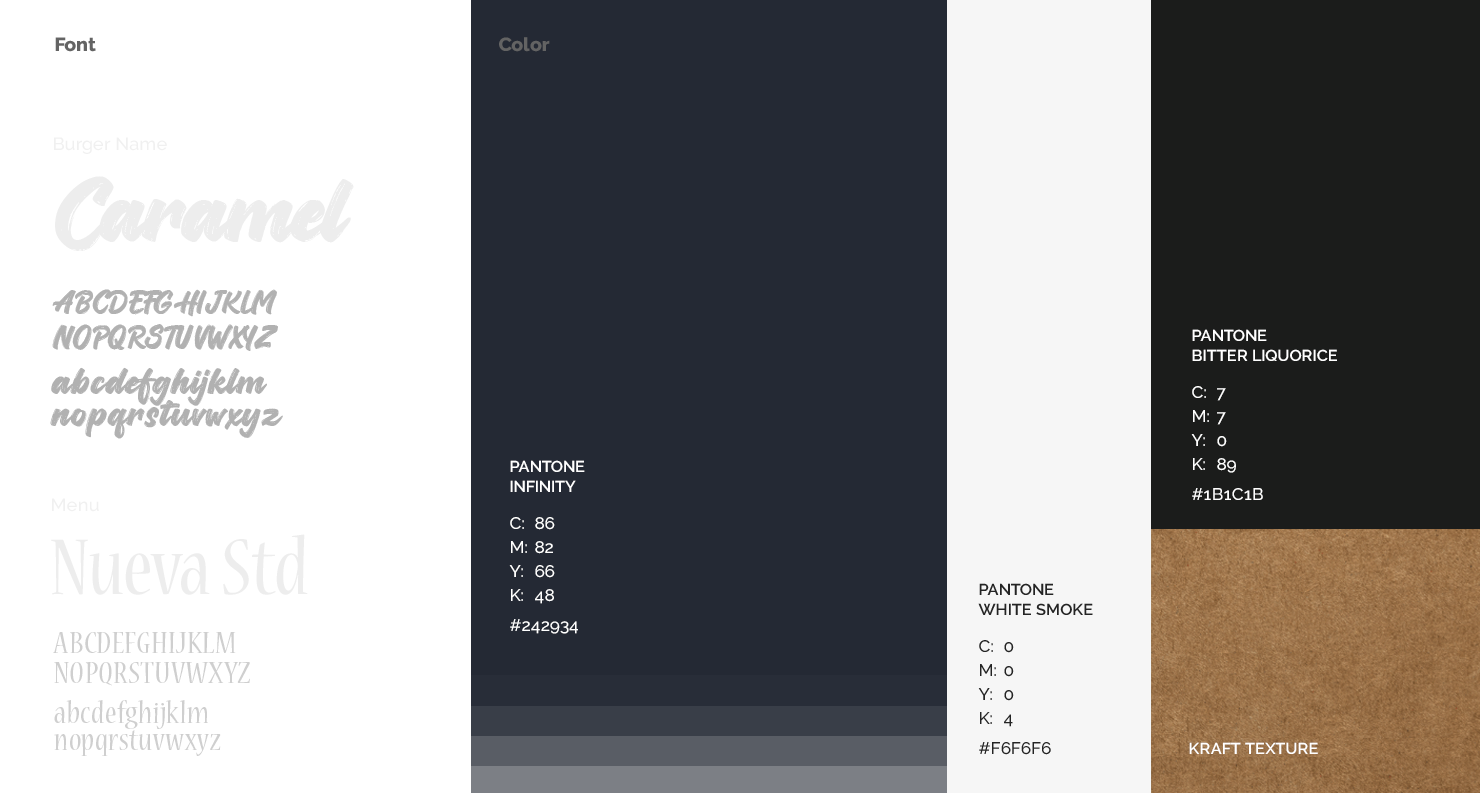
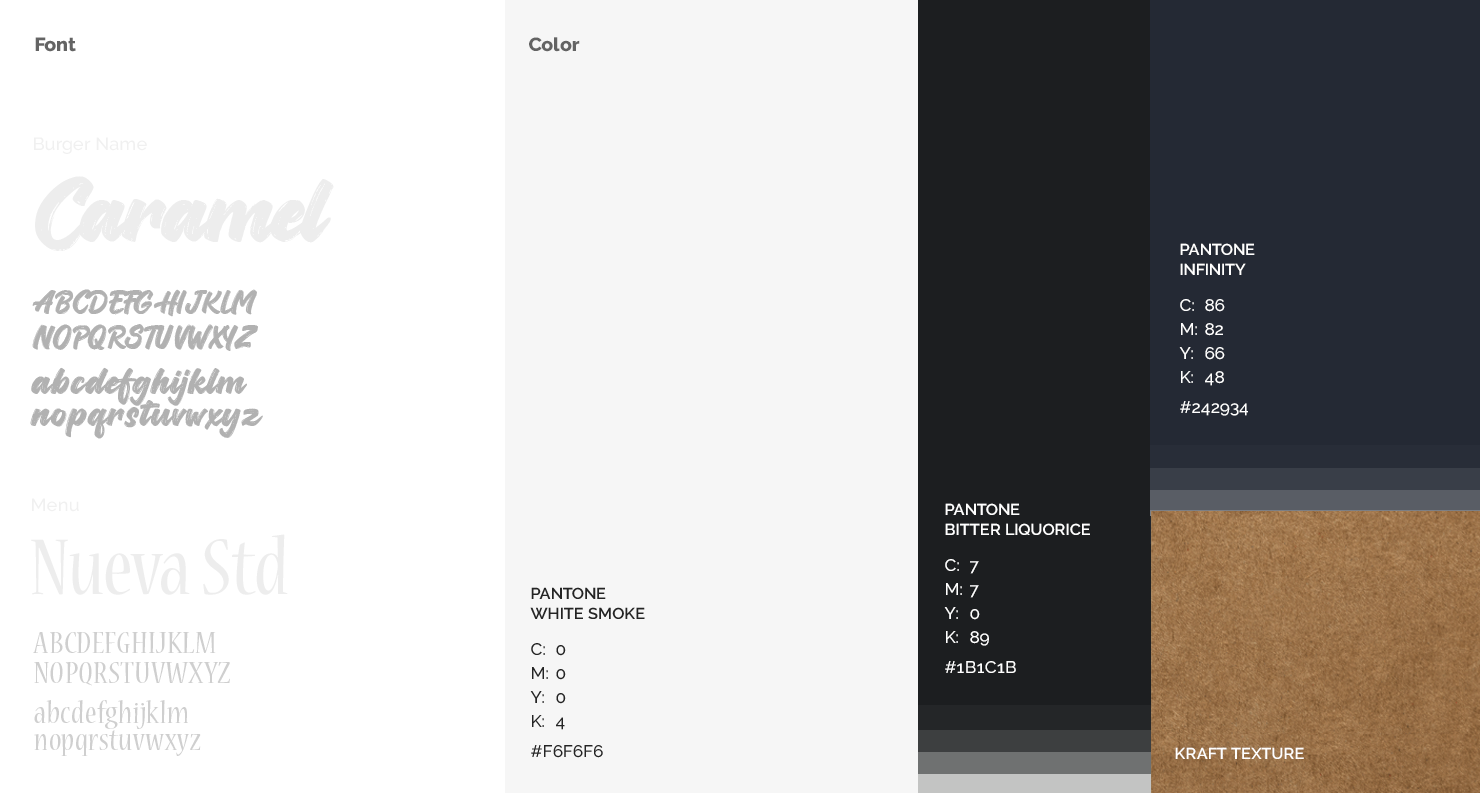
1211_01

diff --git a/project/2nd.html b/project/2nd.html
@@ -101,7 +101,7 @@
         <p class="observable h1 spacing-sub-title">The Story</p>
         <p class="observable statement-4 spacing-large copy-width-70" style="font-weight:100;">The shop owner who is South Africans Tribe people live in UK, started as a hamburger restaurant at city of Cotswolds after moving to the town. His own hand-crafted patties with south africa tribe spices marinate methods. The client needed a revamp brand identity to convey the message of the merge between traditional rustic tasty and community to transmit to it's costumers. Has set the pleasurable experience for the new places that offer burger food in the community.</p>
 
-        <p class="observable h1 spacing-sub-title">Brand Identify</p>
+        <p class="observable h1 spacing-sub-title">Brand Value</p>
         <p class="observable statement-4 spacing-medium copy-width-70" style="font-weight:100;"><img class="observable lazy" data-src="../images/projects/2nd/brand_id.png" /></p>
 
         <p class="observable h6 spacing-sub-title"><b>Shop Owner :</b></p>
@@ -157,19 +157,27 @@
 
 
     <div class="team copy-width-large-col-copy-lr spacing-sub-title observable">
-      <img class="observable lazy" data-src="../images/projects/2nd/typo_a.jpg" />
+      <img class="observable lazy" data-src="../images/projects/2nd/typo.jpg" />
     </div>
 
-    <div class="team copy-width-large-col-copy-lr spacing-large observable">
+    <div class="team copy-width-large-col-copy-lr spacing-medium observable">
       <div class="copy-width-large-col-copy-l-copy">
         <p class="observable h1 spacing-title txtpoint">Logotype</p>
       </div>
       <div class="copy-width-large-col-copy-r-copy">
-        <p class="observable body spacing-sub-title">All these elements result in a unique, and fresh brand that reflects the project’s values. The South Africa Tribe Mask is one of the most important elements. The fluidity of the line movements served as a great inspiration when designing the brand's logo.  So, The main idea of the logo was mixing tribe mask and burger outline that creates casual and fluid hand-sketching outline, that evokes the brand's natural, organic and care-free ethos, while still eating what they love.</p>
+        <p class="observable body spacing-sub-title">All these elements result in a unique, and fresh brand that reflects the project’s values. The South Africa Tribe Mask is one of the most important elements. The fluidity of the line movements served as a great inspiration when designing the brand's logo. So, The main idea of the logo was mixing tribe mask and burger outline that creates casual and fluid hand-sketching outline, that evokes the brand's natural, organic and care-free ethos, while still eating what they love burger.</p>
 
-        <p class="observable body spacing-medium">The brand name "2nd" comes from the expression "Start at night of one day" as the name implies shop owner said. I wanted to reflect the night time as a direct reference to the initial concept.</p>
+        <p class="observable body spacing-small">The brand name "2nd" comes from the expression "Start at night of one day". I wanted to reflect the night time as a direct reference to the initial concept. The connection of letters of "2nd" to each other that merged as one symbol with bold font high contrast and legibility is perfect for it.</p>
       </div>
     </div>
+
+
+    <div class="team copy-width spacing-large observable">
+        <img class="observable lazy" data-src="../images/projects/2nd/parallax-2.png" />
+    </div>
+
+
+    <div class="spacing-large"></div>
 
 
     <div class="team body-width-small spacing-small observable">
@@ -181,7 +189,7 @@
       </div>
       <div class="copy-width-large-col-copy-r-copy">
         <p class="observable h1 spacing-sub-title txtpoint">Font and Color Palette</p>
-        <p class="observable body spacing-sub-title">The color palette was created with night tones and blue accents as a direct reference to the initial concept: timeless black-and-white colour combination portrays it’s presented night and day transitions. Lastly, Kraft texture as burger paper......</p>
+        <p class="observable body spacing-sub-title">The color palette wishes to convey "Time" as a direct reference to the initial concept: timeless black-and-white colour combination portrays it’s presented night and day transitions, and night blue as sub-colors. Lastly, Kraft texture which are applied to mixing the brand visual element.</p>
       </div>
     </div>
 
@@ -199,6 +207,7 @@
     -->
 
 
+
     <div class="spacing-large"></div>
 
 
@@ -211,7 +220,7 @@
         <p class="observable h1 spacing-title txtpoint">Visual Element</p>
       </div>
       <div class="copy-width-large-col-copy-r-copy">
-        <p class="observable body spacing-large">The five type burger ingredients symbol are the elements that supports the 2nd Burger as a whole. Capturing the ingredients and south africa spices of the product was essential when establishing the brand visual by hand sketch of bold symbol. That creates a sense of coherence, confidence and in the same time to create a unique identity.</p>
+        <p class="observable body spacing-large">The five type burger ingredients symbol are the elements that supports the 2nd Burger as a whole. Capturing the ingredients and south africa spices of the product was essential when establishing the brand visual by hand sketch of bold symbol, this illustration is also an iconography attached to the brand. That creates a sense of coherence, confidence and in the same time to create a unique identity.</p>
       </div>
     </div>
 
@@ -236,7 +245,7 @@
         <p class="observable h1 spacing-title txtpoint">Packing</p>
       </div>
       <div class="copy-width-large-col-copy-r-copy">
-        <p class="observable body spacing-small">A trendy and laconic packaging design made the product visually striking. Fabula Branding used a typographic play on letter spacing to create the logo. Cooking methods were explained by using a yummy food zone.</p>
+        <p class="observable body spacing-small">In packaging design, A trendy and laconic packaging design made the product visually striking. Fabula Branding used a typographic play on letter spacing to create the logo. Cooking methods were explained by using a yummy food zone.</p>
 
         <p class="observable body spacing-small">It's night blue color seek to generate emotions such as Night, enthusiasm and joy.</p>
       </div>
